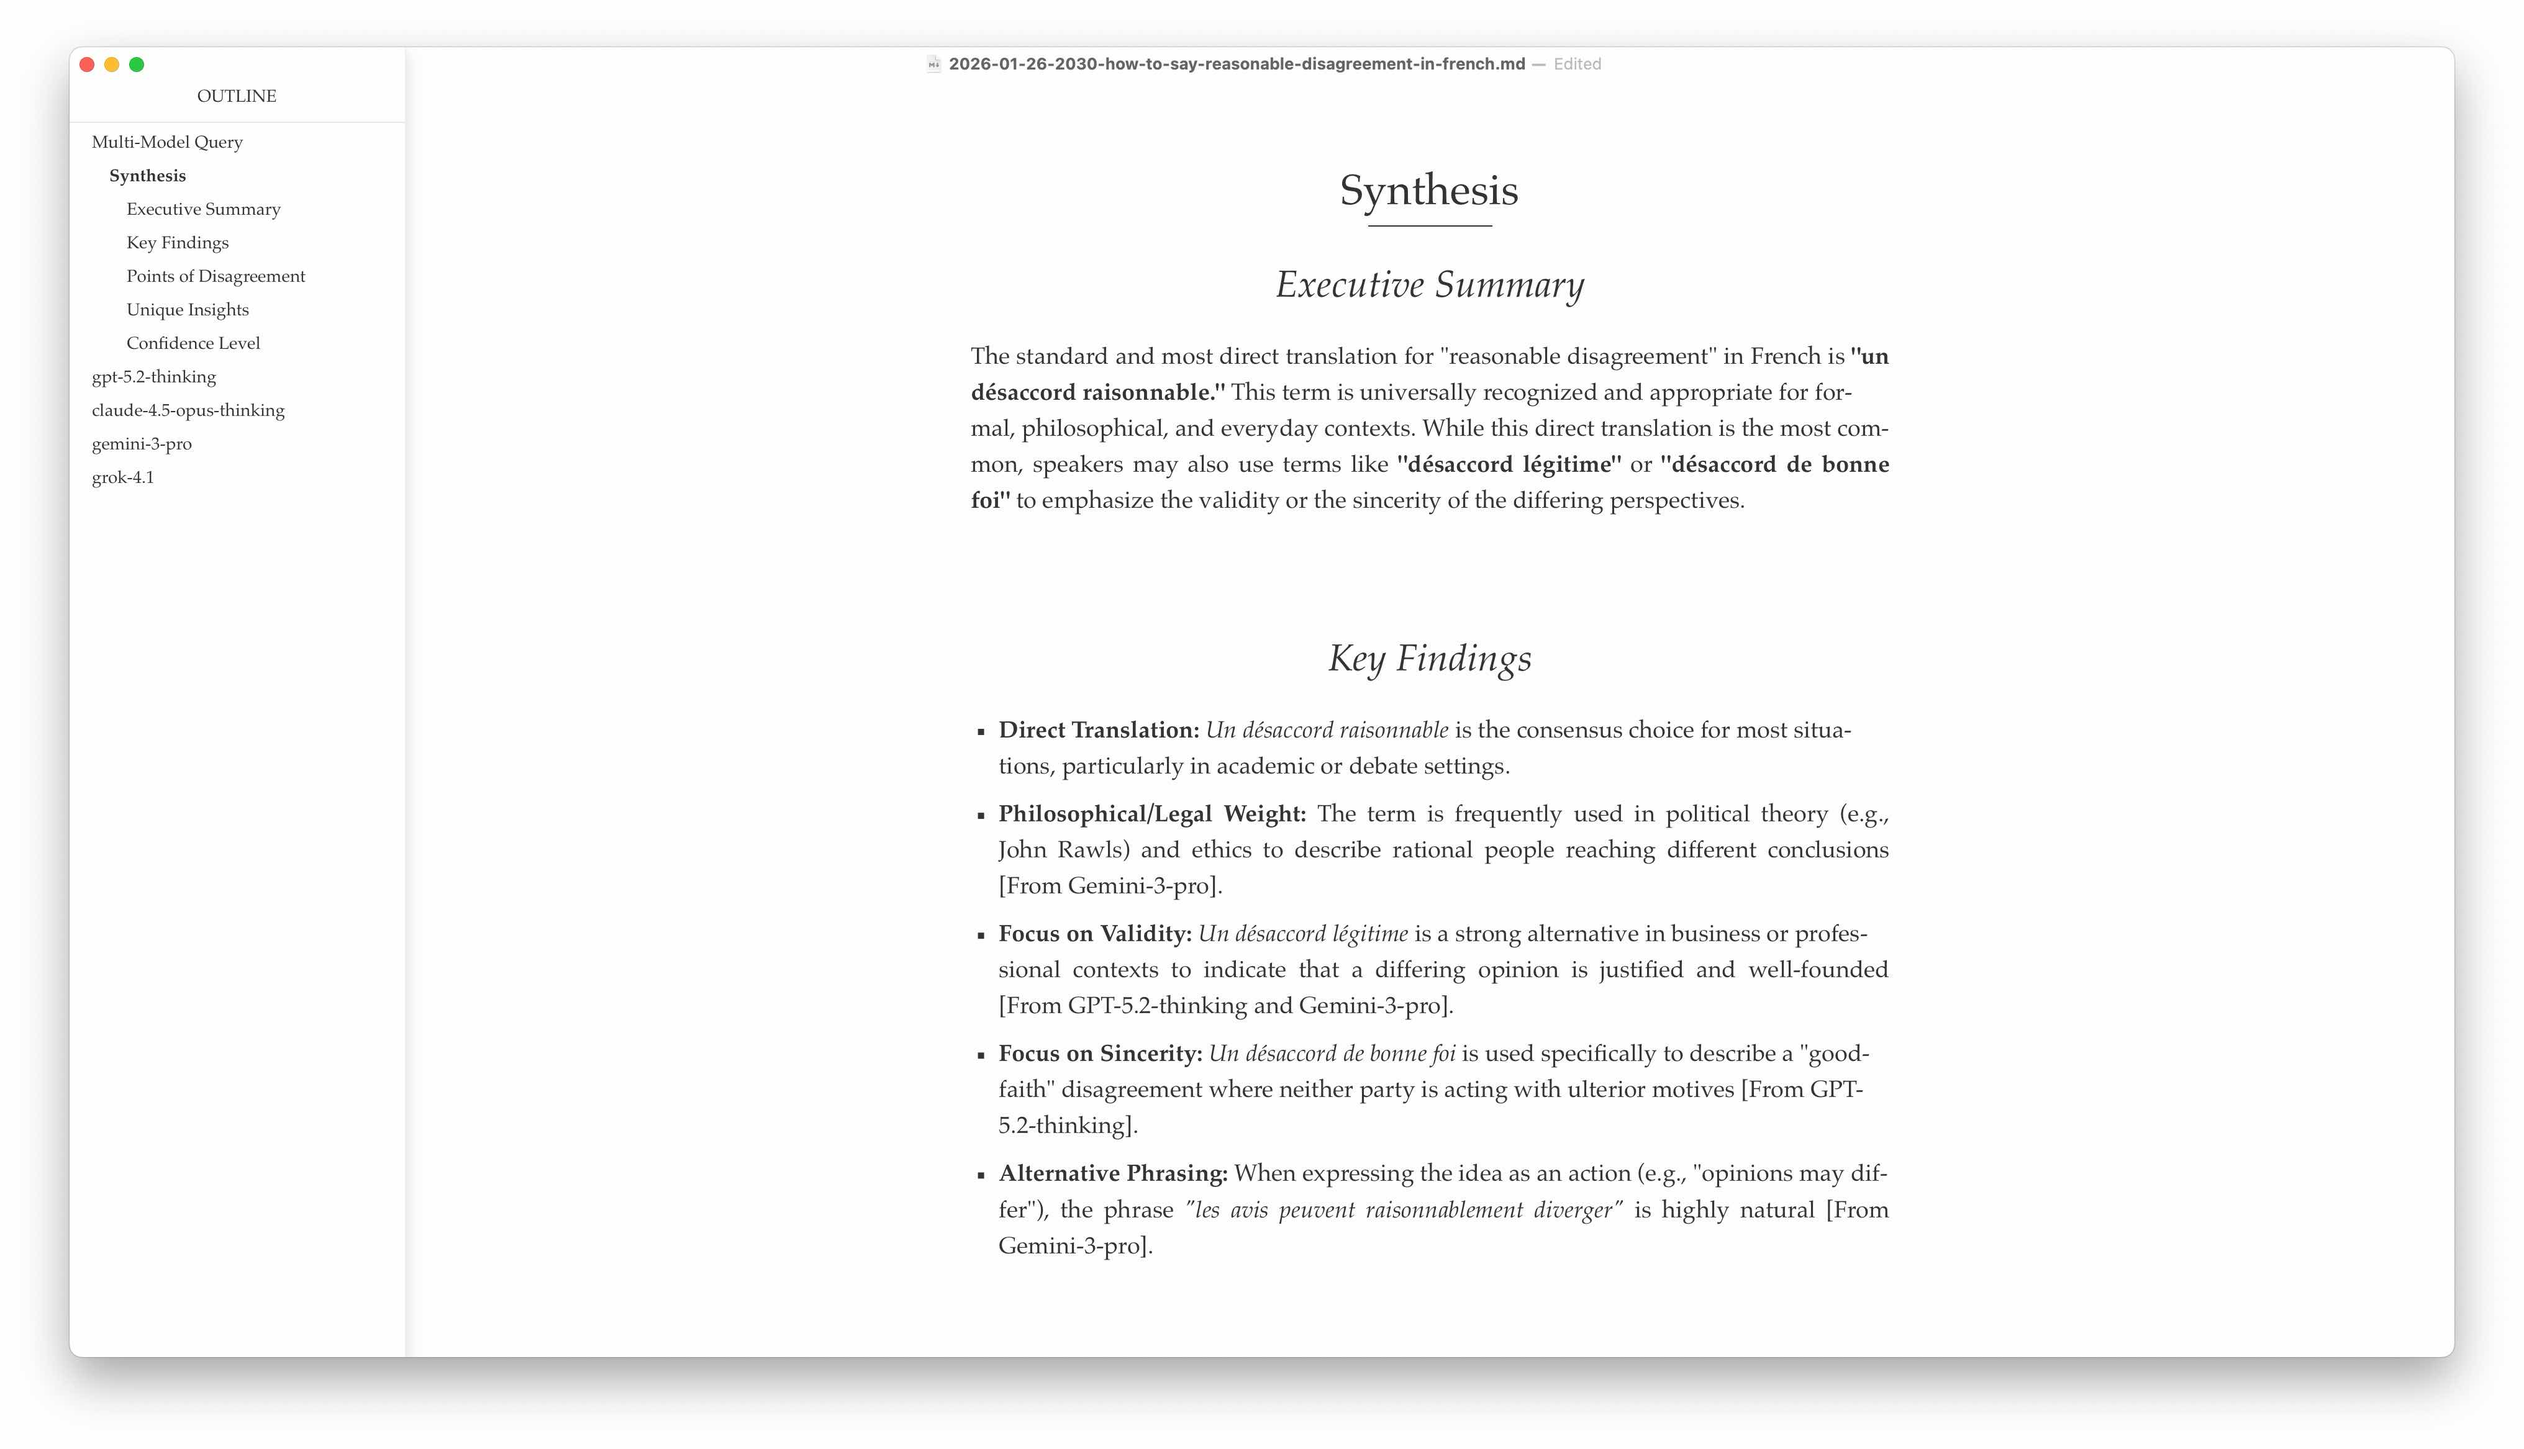
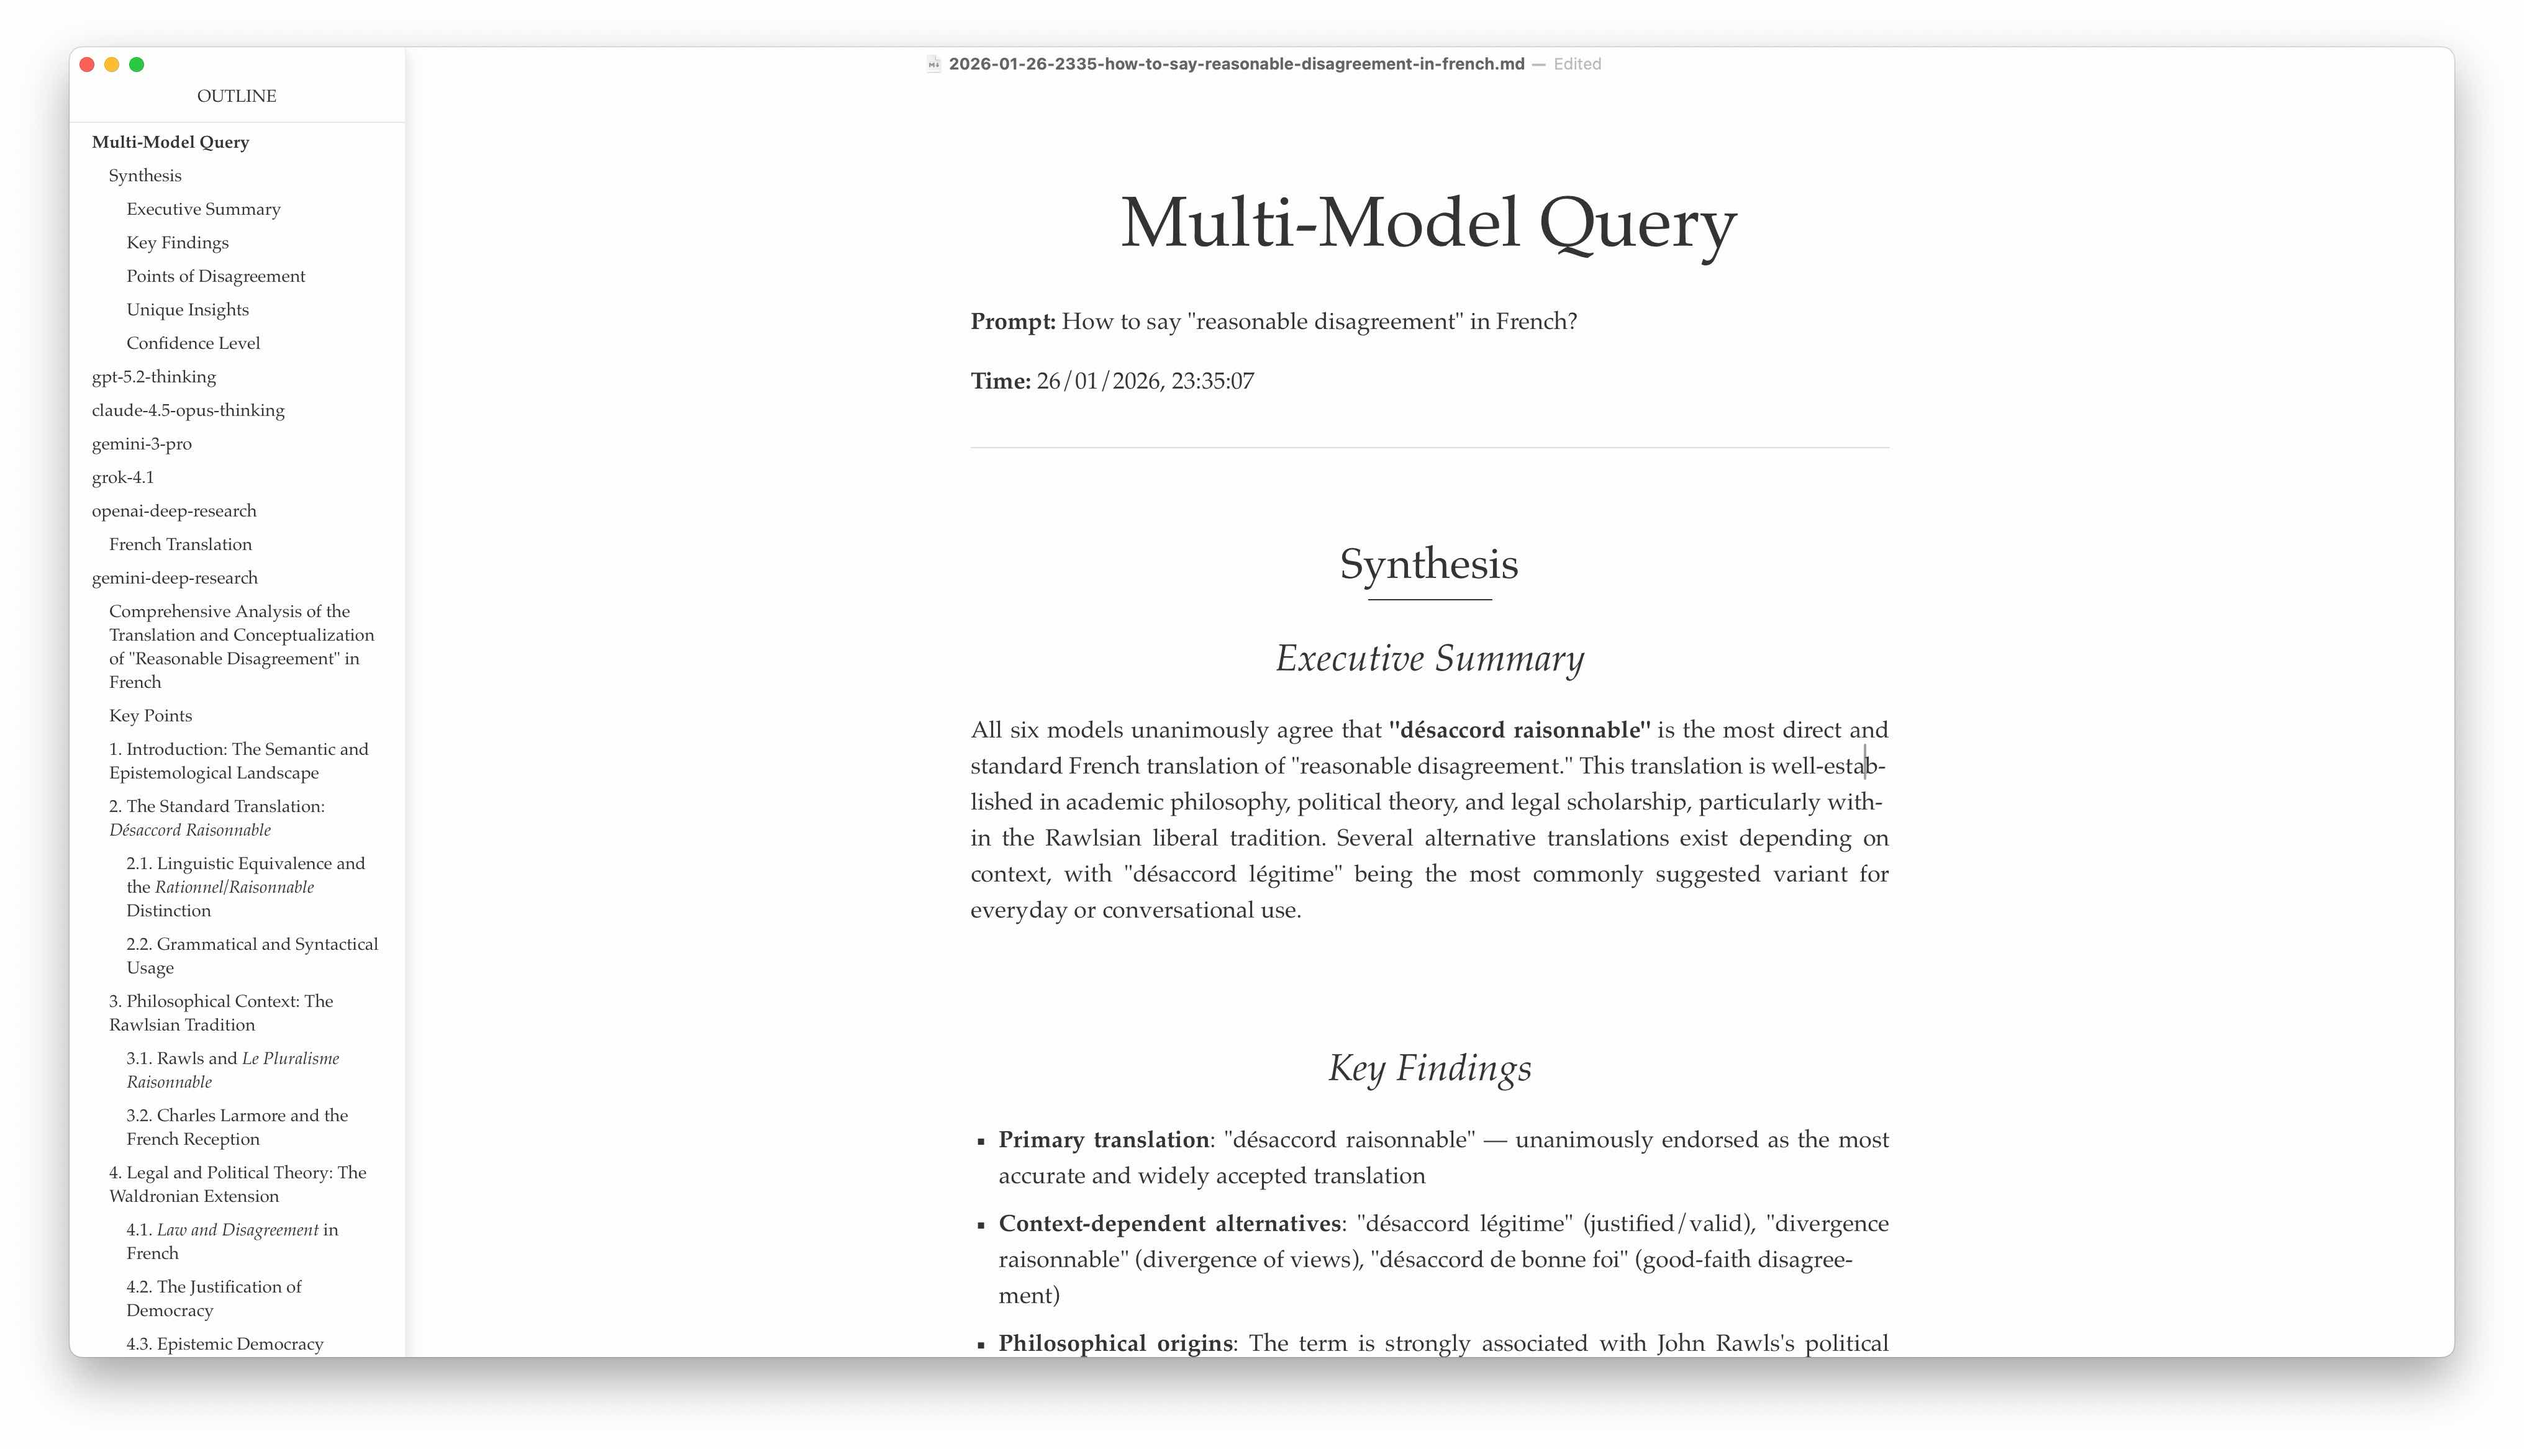
Add third screenshot and improve header for long prompts/context
Screenshots:
- Add amm-skill-answer-2.jpeg showing continued response
- Add amm-skill-question-deep-research.jpeg for deep research
- Update amm-skill-answer.jpeg

Header improvements:
- Truncate prompts >500 words and save full prompt to prompt.md
- Show context file paths as clickable links (absolute paths)
- Add word counting and truncation utilities

diff --git a/scripts/query.ts b/scripts/query.ts
@@ -351,10 +351,52 @@ function normaliseHeadings(text: string): string {
 }
 
 // Create initial live markdown file with model headings
-function createLiveFile(filePath: string, prompt: string, modelNames: string[], imagePath?: string): void {
+// Count words in a string
+function countWords(text: string): number {
+  return text.trim().split(/\s+/).filter(w => w.length > 0).length;
+}
+
+// Truncate text to approximately N words
+function truncateToWords(text: string, maxWords: number): string {
+  const words = text.trim().split(/\s+/).filter(w => w.length > 0);
+  if (words.length <= maxWords) return text;
+  return words.slice(0, maxWords).join(' ') + '...';
+}
+
+function createLiveFile(
+  filePath: string,
+  prompt: string,
+  modelNames: string[],
+  imagePath?: string,
+  contextPaths?: string[]
+): void {
   const now = new Date().toLocaleString('en-GB', { timeZone: 'Europe/Paris' });
+  const outputDir = dirname(filePath);
   let content = `# Multi-Model Query\n\n`;
-  content += `**Prompt:** ${prompt}\n\n`;
+
+  // Handle prompt - truncate and link if >500 words
+  const wordCount = countWords(prompt);
+  if (wordCount > 500) {
+    // Save full prompt to prompt.md
+    const promptFilePath = join(outputDir, 'prompt.md');
+    writeFileSync(promptFilePath, prompt);
+
+    const truncated = truncateToWords(prompt, 50);
+    content += `**Prompt:** ${truncated}\n[Full prompt](./prompt.md)\n\n`;
+  } else {
+    content += `**Prompt:** ${prompt}\n\n`;
+  }
+
+  // Handle context - always link to absolute paths
+  if (contextPaths && contextPaths.length > 0) {
+    content += `**Context:**\n`;
+    for (const ctxPath of contextPaths) {
+      const fileName = basename(ctxPath);
+      content += `- [${fileName}](${ctxPath})\n`;
+    }
+    content += `\n`;
+  }
+
   if (imagePath) {
     const imageFilename = basename(imagePath);
     content += `**Image:** ${imageFilename}\n\n`;
@@ -403,6 +445,7 @@ interface QueryModelsOptions {
   defaultTimeoutSeconds: number;
   liveFilePath?: string;
   imagePath?: string;
+  contextPaths?: string[];
   onFastModelsComplete?: (results: ModelResult[]) => Promise<void>;
   onAllModelsComplete?: (results: ModelResult[]) => Promise<void>;
 }
@@ -415,6 +458,7 @@ async function queryModelsWithProgress(options: QueryModelsOptions): Promise<Mod
     defaultTimeoutSeconds,
     liveFilePath,
     imagePath,
+    contextPaths,
     onFastModelsComplete,
     onAllModelsComplete,
   } = options;
@@ -435,7 +479,7 @@ async function queryModelsWithProgress(options: QueryModelsOptions): Promise<Mod
 
   // Create live file if specified
   if (liveFilePath) {
-    createLiveFile(liveFilePath, prompt, modelNames, imagePath);
+    createLiveFile(liveFilePath, prompt, modelNames, imagePath, contextPaths);
   }
 
   // Start progress display
@@ -819,9 +863,10 @@ async function runQuery(
     : prompt;
 
   // Create live file early if we have deep research models (to show progress)
+  const contextPaths = options.context ? [options.context] : undefined;
   if (options.liveFile && hasDeepResearch) {
     const allModelsToShow = [...quickModels, ...deepResearchModels];
-    createLiveFile(options.liveFile, prompt, allModelsToShow, options.image);
+    createLiveFile(options.liveFile, prompt, allModelsToShow, options.image, contextPaths);
   }
 
   // Start deep research queries in background (they run for 20-40 min)
@@ -888,6 +933,7 @@ async function runQuery(
       defaultTimeoutSeconds: timeoutSeconds,
       liveFilePath: hasDeepResearch ? undefined : options.liveFile, // Only create if no deep research
       imagePath: options.image,
+      contextPaths,
 
       // Callback when fast models complete
       onFastModelsComplete: hasSlowModels ? async (fastResults) => {

diff --git a/README.md b/README.md
@@ -6,6 +6,8 @@ A Claude Code skill for querying multiple AI models (GPT, Claude, Gemini, Grok) 
 
 ![Ask Many Models response](amm-skill-answer.jpeg)
 
+![Ask Many Models response continued](amm-skill-answer-2.jpeg)
+
 ## Usage
 
 **Within Claude Code:** Just say "Ask many models: [your question]" and Claude will handle the rest.
